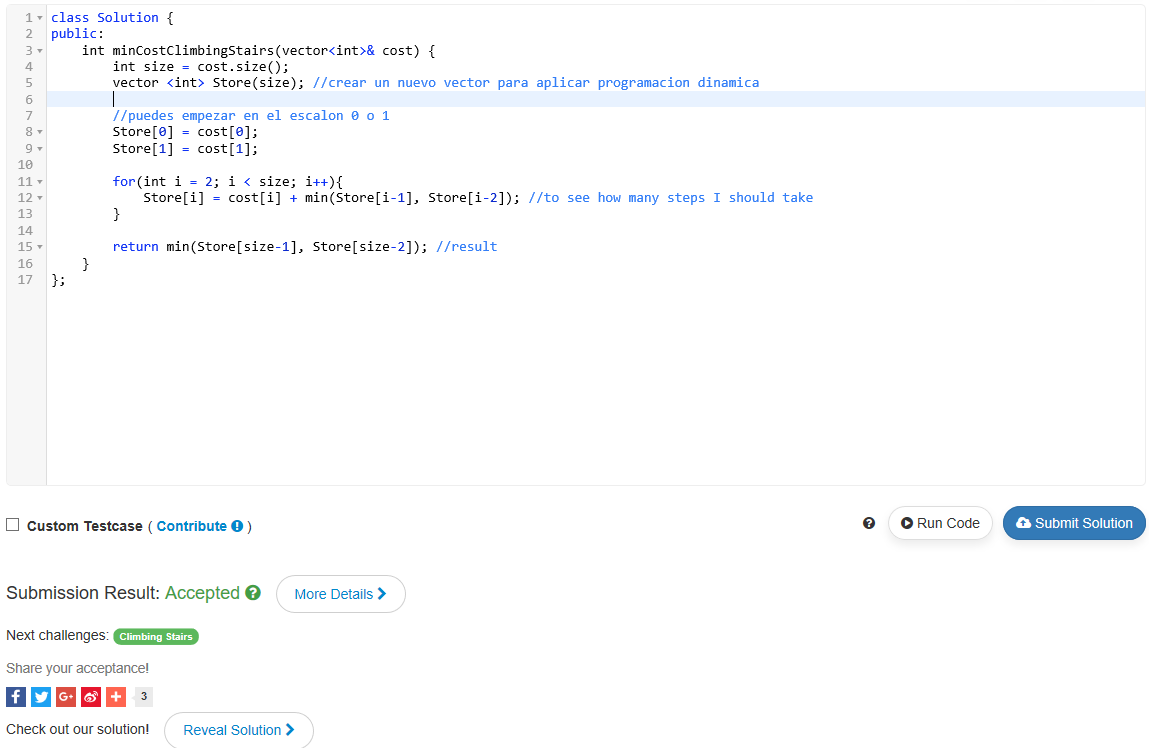
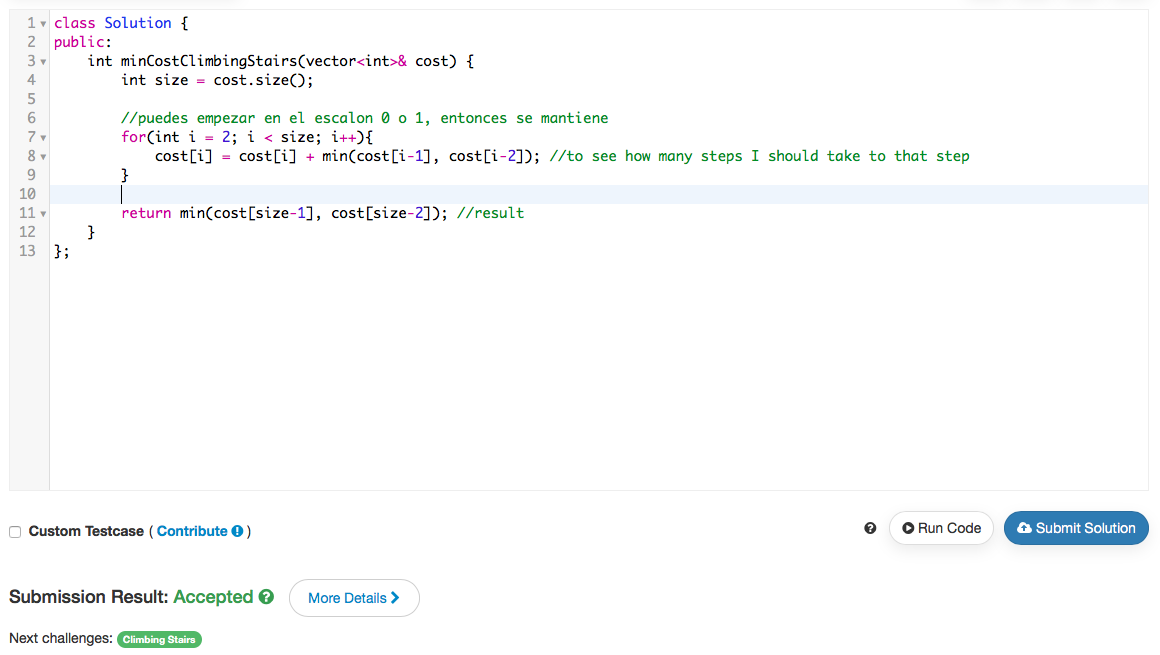
making the code smaller

diff --git a/MoMento 3/Min Cost Climbing Stairs/main.cpp b/MoMento 3/Min Cost Climbing Stairs/main.cpp
@@ -7,16 +7,12 @@ class Solution {
 public:
     int minCostClimbingStairs(vector<int>& cost) {
         int size = cost.size();
-        vector <int> Store(size); //crear un nuevo vector para aplicar programacion dinamica
 
-        //puedes empezar en el escalon 0 o 1
-        Store[0] = cost[0];
-        Store[1] = cost[1];
-
+        //puedes empezar en el escalon 0 o 1, entonces se mantiene
         for(int i = 2; i < size; i++){
-            Store[i] = cost[i] + min(Store[i-1], Store[i-2]); //to see how many steps I should take
+            cost[i] = cost[i] + min(cost[i-1], cost[i-2]); //to see how many steps I should take to that step
         }
 
-        return min(Store[size-1], Store[size-2]); //result
+        return min(cost[size-1], cost[size-2]); //result
     }
 };
